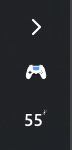
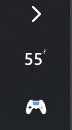
docs: add bilingual guides and native Compact tray screenshots

Changed region(s): [[0.3333, 0.7077, 0.6667, 0.8923], [0.3333, 0.3692, 0.6667, 0.5538], [0.4444, 0.0308, 0.5833, 0.2462]]

diff --git a/README.md b/README.md
@@ -1,79 +1,93 @@
-# Controller Battery Tray · 手柄电量托盘
+<div align="center">
 
-在 Windows 系统托盘直接查看手柄电量与充电状态。提供双图标和紧凑两种布局，适配系统明暗主题；手柄连接后自动显示，断开或停止上报有效数据后自动隐藏。
+# Controller Battery Tray
 
-![本机 USB DualSense 详情](docs/images/controller-status.png)
+**手柄电量，抬眼可见。**
 
-![本机竖向托盘局部](docs/images/controller-tray.png)
+Windows 托盘电量工具 · DualSense · XInput · 飞智八爪鱼 4
+
+**简体中文** · [English](README.en.md)
+
+[下载稳定版](https://github.com/AweStudioX/DualSenseBatteryTray/releases/latest) · [支持范围](#支持范围) · [从源码构建](#从源码构建) · [反馈问题](https://github.com/AweStudioX/DualSenseBatteryTray/issues)
+
+</div>
+
+> **版本说明：**原生蓝牙支持已加入当前源码，尚待实机验证；已发布的 **v1.0.2 不包含此功能**。以下截图来自本机 USB DualSense，不能作为蓝牙实测证据。
+
+## 界面预览
+
+![本机 USB DualSense 的详情窗口](docs/images/controller-status.png)
+
+### 两种托盘布局
+
+| Two icons · 默认双图标 | Compact · 紧凑单图标 |
+| :---: | :---: |
+| ![双图标：手柄与百分比](docs/images/controller-tray.png) | ![Compact：单图标内显示手柄与数字](docs/images/controller-tray-compact.png) |
+| 手柄图标 + 带百分号的电量，优先可读性 | 手柄与电量合并，节省托盘空间 |
+
+本机使用竖向任务栏，以上均为原生像素截图。Compact 图标内省略百分号，悬停提示与详情窗口仍显示完整电量。右键图标 → **Tray layout** 可切换；选择会保存，切换不会重启手柄读取。
 
 ## 功能
 
-- **电量常驻托盘**：直接查看电量数字，点击图标打开设备、连接方式、电量和状态详情。
-- **两种布局**：默认双图标（手柄图标 + 带百分号的电量），也可切换为紧凑单图标；布局选择会保存。
+- **托盘电量与充电状态**：点击图标查看设备、连接方式、电量和状态。
 - **低电量提醒**：放电时到达或低于 20% / 10% 提醒，避免重复通知。
-- **自动出现与隐藏**：登录后由后台 Watcher 检测手柄；DualSense 通过持续变化的数据判断存活，避免把仍插着的转接器当成开机的手柄。
-- **安装与卸载**：Windows x64 安装包自带 .NET 运行时，按当前用户安装，可在 Windows“已安装的应用”中卸载。
+- **随手柄出现与隐藏**：后台 Watcher 在登录后检测设备；DualSense 通过报告序号和时间戳判断存活，避免把常插接收器误认为开机手柄。
+- **主题适配**：图标跟随 Windows 系统明暗主题。
+- **当前用户安装**：安装包包含 .NET 运行时，无需单独下载，可从 Windows“已安装的应用”卸载。
 
-## 支持范围与电量精度
+## 支持范围
 
-| 设备 / 连接方式 | 当前实现 | 电量说明与限制 |
-| --- | --- | --- |
-| DualSense / USB HID | 支持 | 按手柄上报的约 10% 档位换算；显示 55% 不代表精确到 1%。不包含原生蓝牙支持。 |
-| XInput 兼容手柄 | 支持检测；电量取决于设备上报 | 已知无线电池类型可显示约 0% / 25% / 50% / 100% 四档；接收器若按有线设备上报，则显示未知。 |
-| 飞智八爪鱼 4 / 2.4 GHz 接收器 | 通过飞智本地后台服务读取 | 依赖空间站后台服务的 fcs.sock 通道及 k2 型号识别；0–5 电量等级映射为近似百分比，充电时可能只有状态而没有百分比。 |
-| 其他飞智型号 / DualSense Edge / DualShock 4 | 不作已支持承诺 | 兼容标识不能证明具体型号；需要单独适配和实机验证。 |
+| 手柄 / 连接方式 | 当前源码 | 电量来源与限制 | 实测情况 |
+| --- | --- | --- | --- |
+| DualSense / USB HID | 支持 | 约 10% 档位换算，例如 55% 不表示精确到 1% | 本机读取与截图已确认；游戏共存需按环境验证 |
+| DualSense / 原生蓝牙 | 已实现，预览 | 读取完整蓝牙报告并校验 CRC；打开连接时请求校准 Feature Report，以启用完整报告 | **待实机验证**：首次配对、重连、休眠恢复、Steam Input 共存 |
+| XInput 兼容手柄 | 支持检测，电量取决于上报 | 已知无线电池类型约为 0% / 25% / 50% / 100% 四档；按有线设备上报的接收器显示未知 | 不承诺所有型号和接收器 |
+| 飞智八爪鱼 4 / 2.4 GHz | 支持本地服务读取 | 依赖空间站后台服务的 fcs.sock 通道及 k2 身份；0–5 等级映射为近似电量 | 当前适配不代表所有固件均实测 |
+| DualSense Edge / DualShock 4 / 其他飞智型号 | 暂不承诺支持 | 需要单独适配与验证 | 未覆盖 |
 
-上表描述当前代码覆盖范围，不代表全部型号、固件和转接器均已实测。无法读取时显示问号，不会用 100% 代替未知电量。截图来自本机 USB DualSense，未展示其他型号的实测结果。
+无法读取时显示问号，不用 100% 代替未知值。飞智充电时可能只有状态，没有百分比。蓝牙简化报告、损坏报告与不支持的报告不会被当作电量数据。
 
-## 下载与使用
+## 安装与使用
 
-1. 从 [GitHub Releases](https://github.com/AweStudioX/DualSenseBatteryTray/releases/latest) 下载最新 win-x64-Setup.exe。
-2. 运行安装包，无需单独安装 .NET；连接受支持手柄后查看系统托盘。
-3. 点击图标查看详情；右键可切换布局、刷新，以及管理登录后监听。
-4. 卸载：Windows **设置 → 应用 → 已安装的应用 → DualSense Battery Tray**。
+1. 从 [Releases](https://github.com/AweStudioX/DualSenseBatteryTray/releases/latest) 下载 Windows x64 的 Setup.exe。
+2. 安装后连接受支持手柄；点击托盘图标打开详情，右键管理布局、刷新和登录后监听。
+3. 手柄断开或持续停止有效上报后，应用退出并移除图标；后台 Watcher 保留检测能力。
+4. 卸载：**设置 → 应用 → 已安装的应用 → DualSense Battery Tray**。
 
-安装包当前未签名，可能触发 Windows SmartScreen 提示。请核对下载来源和 Release 附带的 SHA-256。ZIP 是手动安装包，并非免安装便携版。
+安装包目前未签名，Windows SmartScreen 可能显示提示。请核对 GitHub Release 来源与附带 SHA-256。ZIP 为手动安装包，**不是便携版**；解压后运行 install.ps1，移除使用 uninstall.ps1。Setup 安装请从 Windows 应用列表卸载。
+
+## 原生蓝牙（源码预览）
+
+在 Windows 中先完成 DualSense 蓝牙配对，然后运行从当前源码构建的版本。应用使用同一 Sony VID/PID 识别设备，根据 HID 报告长度区分 USB 与蓝牙，并在详情中显示 **Bluetooth**。
+
+蓝牙连接打开时读取校准 Feature Report 0x05，请求手柄提供含电量的完整报告；不会写入校准值。若请求失败且无法获得完整报告，应用不会编造电量，Watcher 会在后续检测中重新尝试。此路径已有自动测试，硬件验证仍待完成。
 
 ## 数据与兼容性
 
-DualSense HID 采用共享只读方式；XInput 使用电池状态查询；飞智通过本地后台服务查询电量。应用不发送手柄灯光、震动或按键控制命令，也不创建虚拟手柄。第三方隐藏设备或独占访问可能导致电量不可读，具体游戏共存情况需要按设备实测。
+- HID 保持共享只读访问；不创建虚拟手柄、不映射输入、不发送灯光、震动或按键控制命令。
+- USB 不请求 Feature Report；蓝牙额外进行上述 Feature Report 读取。因此“完全不访问 Feature Report”不适用于新版蓝牙路径。
+- XInput 使用电池状态 API；飞智通过本地空间站服务查询。
+- 日志与布局偏好保存在本地，不上传按键或摇杆数据。HidHide、独占访问或设备隐藏可能导致电量不可读。
+- 蓝牙模式切换可能影响其他软件对手柄报告格式的假设；Steam Input 与游戏共存需实机确认。
 
-## English
+## 从源码构建
 
-Windows x64 tray battery monitor for USB DualSense and XInput-compatible controllers, with Flydigi APEX 4 readings through the local Space Station service. Includes readable/compact layouts, charging status, low-battery alerts, and automatic visibility based on controller liveness. Support depends on the connection and available battery source; percentages can be coarse estimates.
+需要 Windows x64 和 .NET 8 SDK。
 
+~~~powershell
+dotnet restore DualSenseBatteryTray.sln
+dotnet test DualSenseBatteryTray.sln -c Release
+dotnet publish src/DualSenseBatteryTray.App/DualSenseBatteryTray.App.csproj -c Release -r win-x64 --self-contained true -p:DebugType=None -p:DebugSymbols=false -o artifacts/app-publish
+dotnet publish src/DualSenseBatteryTray.Watcher/DualSenseBatteryTray.Watcher.csproj -c Release -r win-x64 --self-contained true -p:DebugType=None -p:DebugSymbols=false -o artifacts/watcher-publish
+.\scripts\merge-publish.ps1 -AppDirectory (Resolve-Path artifacts/app-publish).Path -WatcherDirectory (Resolve-Path artifacts/watcher-publish).Path -OutputDirectory (Join-Path $PWD artifacts/publish)
+.\scripts\install.ps1 -PublishDirectory (Resolve-Path artifacts/publish).Path
+~~~
 
-## Install
+发布 version tag 会触发 Windows Release 流程：测试、构建自包含应用与 Watcher、构建并验证安装包、上传产物及校验文件。详见 [.github/workflows/release.yml](.github/workflows/release.yml)。
 
-Download `DualSenseBatteryTray-v1.0.1-win-x64-Setup.exe` from the [latest GitHub Release](https://github.com/AweStudioX/DualSenseBatteryTray/releases/latest) and run it. This is one per-user installer: it bundles the App, background Watcher, and .NET runtime, so there is no second download or administrator prompt. It installs to `%LOCALAPPDATA%\Programs\DualSenseBatteryTray`, registers the Watcher to start at Windows sign-in, and appears in Windows **Installed apps**. The tray App still appears only while a live controller is detected.
+## 致谢
 
-To remove it, use Windows **Settings → Apps → Installed apps → DualSense Battery Tray → Uninstall**, or the Start Menu uninstall shortcut. The installer is currently unsigned, so Windows SmartScreen may show a warning; verify the release download and its `.sha256` checksum before choosing to run it.
-
-The `win-x64.zip` archive remains available for manual installation. It is not a portable edition. Extract it and run:
-
-```powershell
-.\install.ps1 -PublishDirectory .\publish
-```
-
-This PowerShell route installs the same App, Watcher, and logon task for the current user. If you installed from ZIP, remove it with `uninstall.ps1` from the extracted archive. If you installed with Setup.exe, use Windows Installed apps instead.
-
-## Behavior
-
-- Supported controllers currently include USB DualSense and XInput-compatible controllers. Flydigi receivers are recognized separately when Windows exposes their `FLYDIGI_VADER` or `FLYDIGI_APEX` compatibility identity; other XInput devices use a generic gamepad profile and icon.
-- A supported controller uses the readable `Two icons` layout by default at 96 DPI: a controller-specific icon followed by a separate battery value that includes `%`.
-- DualSense reports coarse battery steps (roughly 10%); values such as 55% are converted estimates, not 1%-accurate measurements. When XInput exposes a known wireless battery type, the application displays its four coarse buckets as `≈ 0%`, `≈ 25%`, `≈ 50%`, or `≈ 100%`. Some third-party receivers—including current Flydigi compatibility firmware—report themselves as wired; their battery remains `?` instead of showing a misleading 100%.
-- Flydigi APEX 4 exposes its real 0–5 battery level and charging state through the Space Station background channel. When its local `fcs.sock` pipe is available, the app identifies the controller as `k2`, uses the APEX icon, and reads that channel without opening or taking over controller input. Without a verified identity source, the receiver is still detected, but its misleading `VADER3` compatibility identity is not treated as an exact model match: the app uses the generic gamepad icon and shows battery as `?`.
-- `Compact` remains an optional persisted layout with one controller-and-number icon; it omits `%` inside the icon while hover text and the status window retain the complete percentage.
-- Connected tray artwork automatically adapts its outline and number contrast when the Windows system theme changes. Charging never replaces the measured percentage with a fabricated value.
-- `Tray layout` in the right-click menu switches live between `Two icons` and `Compact`; the successful choice is remembered across reconnects without restarting the HID session.
-- The executable and status window use a separate static, unconnected controller identity with an unlit touchpad and no blue connection indicator.
-- Clicking any active tray icon opens the status window; right-clicking opens Refresh, listener, tray-layout, About, and Exit commands.
-- VID/PID presence alone is not treated as a connected DualSense. The hidden watcher launches for advancing DualSense reports or an active XInput slot; an idle DualSense adapter that returns frozen reports keeps every tray/window UI hidden.
-- When advancing reports stop, the tray application closes and removes its icon or icons after the liveness timeout; the hidden watcher remains available and restores the application automatically when advancing reports resume without requiring a USB reconnect.
-- DualSense HID access is shared and read-only. XInput support calls only the battery-status API. The application never sends controller output, feature reports, vibration, lighting, or input commands.
-- Controller artwork is adapted from Microsoft Fluent UI System Icons under MIT; see `LICENSES/fluentui-system-icons-MIT.txt`.
-- Flydigi local-service protocol framing is adapted from JKWTCN/BatteryMonitor under MIT; see `LICENSES/batterymonitor-MIT.txt`.
-
-## Releases
-
-Pushing a version tag such as `v1.0.1` runs the Windows Release workflow. It tests the solution, publishes self-contained `win-x64` App and Watcher executables, builds and smoke-tests Setup.exe, then attaches Setup.exe, the manual-install ZIP, and a SHA-256 checksum for each to the GitHub Release. A manual workflow run validates the same packages without publishing a release.
+- [dualshock-tools](https://github.com/dualshock-tools/dualshock-tools.github.io)：电量解析依据，MIT 声明见 [LICENSES](LICENSES/dualshock-tools-MIT.txt)。
+- [JKWTCN/BatteryMonitor](https://github.com/JKWTCN/BatteryMonitor)：飞智本地服务协议封装参考，见 [MIT 声明](LICENSES/batterymonitor-MIT.txt)。
+- [Microsoft Fluent UI System Icons](https://github.com/microsoft/fluentui-system-icons)：手柄图标素材，见 [MIT 声明](LICENSES/fluentui-system-icons-MIT.txt)。
+- 蓝牙报告布局和 CRC 依据 [Linux hid-playstation](https://github.com/torvalds/linux/blob/master/drivers/hid/hid-playstation.c) 的协议定义独立实现；完整报告初始化行为参考 [go-dualsense-battery](https://github.com/neolit123/go-dualsense-battery/blob/main/main.go)。

diff --git a/README.en.md b/README.en.md
@@ -1,0 +1,93 @@
+<div align="center">
+
+# Controller Battery Tray
+
+**Your controller battery, at a glance.**
+
+Windows tray utility · DualSense · XInput · Flydigi APEX 4
+
+[简体中文](README.md) · **English**
+
+[Download stable](https://github.com/AweStudioX/DualSenseBatteryTray/releases/latest) · [Compatibility](#compatibility) · [Build from source](#build-from-source) · [Report an issue](https://github.com/AweStudioX/DualSenseBatteryTray/issues)
+
+</div>
+
+> **Version note:** native Bluetooth support is implemented in the current source, pending hardware verification. Published **v1.0.2 does not include it**. Screenshots show a real USB DualSense session; they are not evidence of Bluetooth hardware testing.
+
+## Preview
+
+![Real USB DualSense status window](docs/images/controller-status.png)
+
+### Two tray layouts
+
+| Two icons · default | Compact · single icon |
+| :---: | :---: |
+| ![Separate controller and battery icons](docs/images/controller-tray.png) | ![Controller and number in one Compact icon](docs/images/controller-tray-compact.png) |
+| Controller artwork plus a separate percentage for readability | Controller artwork and number combined to save space |
+
+These are native-pixel captures from a vertical Windows taskbar. Compact omits the percent sign inside the icon; the tooltip and status window retain the full value. Right-click → **Tray layout** to switch. The choice persists without restarting the controller reader.
+
+## Features
+
+- **Battery and charging status in the tray**: click to view the device, connection, battery and state.
+- **Low-battery alerts**: notify at or below 20% and 10% while discharging, with duplicate suppression.
+- **Automatic visibility**: a background Watcher detects controllers after sign-in. DualSense liveness uses advancing report sequence/timestamp values to avoid mistaking an always-plugged adapter for a powered controller.
+- **System theme support**: tray artwork follows the Windows light/dark system theme.
+- **Per-user installation**: Setup includes the .NET runtime and supports removal through Windows Installed apps.
+
+## Compatibility
+
+| Controller / connection | Current source | Battery source and limits | Hardware verification |
+| --- | --- | --- | --- |
+| DualSense / USB HID | Supported | Converted from roughly 10% steps; 55% does not imply 1% accuracy | Reading and screenshots confirmed locally; game coexistence depends on the environment |
+| DualSense / native Bluetooth | Implemented, preview | Full Bluetooth reports with CRC validation; reads a calibration Feature Report on open to enable full reports | **Pending**: initial pairing, reconnect, resume, Steam Input coexistence |
+| XInput-compatible controllers | Detection supported; battery depends on device | Known wireless battery types expose approximately 0% / 25% / 50% / 100%; receivers reporting wired show unknown | Not a guarantee for all models or receivers |
+| Flydigi APEX 4 / 2.4 GHz | Local-service reader supported | Requires Space Station's fcs.sock channel and k2 identity; levels 0–5 map to approximate percentages | Not all firmware versions have been tested |
+| DualSense Edge / DualShock 4 / other Flydigi models | No support commitment | Require separate adaptation and verification | Not covered |
+
+Unavailable readings display a question mark, never a fabricated 100%. Flydigi may expose charging state without a percentage. Minimal Bluetooth reports, corrupted data and unsupported reports are not interpreted as battery values.
+
+## Install and use
+
+1. Download the Windows x64 Setup.exe from [Releases](https://github.com/AweStudioX/DualSenseBatteryTray/releases/latest).
+2. Install and connect a supported controller. Click the tray icon for details; right-click for layout, refresh and sign-in listener controls.
+3. Disconnecting or persistently losing valid advancing reports closes the app and removes its icons. The Watcher stays available for later connections.
+4. Remove via **Settings → Apps → Installed apps → DualSense Battery Tray**.
+
+The installer is currently unsigned, so Windows SmartScreen may show a warning. Verify the GitHub Release source and supplied SHA-256. The ZIP is a **manual-install package, not a portable edition**: extract it and run install.ps1; remove it with uninstall.ps1. For Setup installations, use Windows Installed apps instead.
+
+## Native Bluetooth (source preview)
+
+Pair your DualSense through Windows first, then run a build of the current source. The app identifies the controller by the same Sony VID/PID, distinguishes USB and Bluetooth by HID report length, and shows **Bluetooth** in the status window.
+
+On Bluetooth open, the app reads calibration Feature Report 0x05 to request full input reports containing battery data. It does not write calibration values. If the request fails and full reports remain unavailable, no battery value is fabricated; the Watcher can retry on later probes. This path has automated coverage but still needs hardware verification.
+
+## Data and coexistence
+
+- HID access remains shared and read-only. No virtual controller, input remapping, lighting, vibration or button-control commands.
+- USB makes no Feature Report requests; Bluetooth performs the GET described above. A blanket claim of never accessing Feature Reports no longer applies to Bluetooth.
+- XInput uses the battery-status API; Flydigi queries its local Space Station service.
+- Logs and layout preferences remain local. No button or stick data is uploaded. HidHide, exclusive access or device hiding may prevent battery access.
+- Switching Bluetooth report mode may affect other software's assumptions about report format; Steam Input and game coexistence require hardware testing.
+
+## Build from source
+
+Requires Windows x64 and .NET 8 SDK.
+
+~~~powershell
+dotnet restore DualSenseBatteryTray.sln
+dotnet test DualSenseBatteryTray.sln -c Release
+dotnet publish src/DualSenseBatteryTray.App/DualSenseBatteryTray.App.csproj -c Release -r win-x64 --self-contained true -p:DebugType=None -p:DebugSymbols=false -o artifacts/app-publish
+dotnet publish src/DualSenseBatteryTray.Watcher/DualSenseBatteryTray.Watcher.csproj -c Release -r win-x64 --self-contained true -p:DebugType=None -p:DebugSymbols=false -o artifacts/watcher-publish
+.\scripts\merge-publish.ps1 -AppDirectory (Resolve-Path artifacts/app-publish).Path -WatcherDirectory (Resolve-Path artifacts/watcher-publish).Path -OutputDirectory (Join-Path $PWD artifacts/publish)
+.\scripts\install.ps1 -PublishDirectory (Resolve-Path artifacts/publish).Path
+~~~
+
+Pushing a version tag triggers the Windows Release workflow: test, publish self-contained App/Watcher binaries, build and validate Setup, and upload packages plus checksums. See [.github/workflows/release.yml](.github/workflows/release.yml).
+
+## Acknowledgements
+
+- [dualshock-tools](https://github.com/dualshock-tools/dualshock-tools.github.io): battery parsing reference; [MIT notice](LICENSES/dualshock-tools-MIT.txt).
+- [JKWTCN/BatteryMonitor](https://github.com/JKWTCN/BatteryMonitor): Flydigi service framing reference; [MIT notice](LICENSES/batterymonitor-MIT.txt).
+- [Microsoft Fluent UI System Icons](https://github.com/microsoft/fluentui-system-icons): controller artwork; [MIT notice](LICENSES/fluentui-system-icons-MIT.txt).
+- Bluetooth layout and CRC independently implemented from the protocol definitions in [Linux hid-playstation](https://github.com/torvalds/linux/blob/master/drivers/hid/hid-playstation.c); full-report initialization behavior checked against [go-dualsense-battery](https://github.com/neolit123/go-dualsense-battery/blob/main/main.go).

diff --git a/docs/verification/2026-11-07-native-bluetooth.md b/docs/verification/2026-11-07-native-bluetooth.md
@@ -1,0 +1,15 @@
+# Native Bluetooth implementation verification
+
+- Date: 2026-11-07 (Asia/Hong_Kong).
+- Source adds 78-byte report 0x31 parsing, shifted common payload offsets and CRC32 seeded with 0xA1. USB remains 64-byte report 0x01.
+- Bluetooth sessions reject minimal reports even if padded to USB length. Invalid reports cannot update battery or liveness.
+- Shared GENERIC_READ access remains unchanged. Bluetooth session open performs one HidD_GetFeature calibration-report read (0x05), sized from HID capabilities with a 41-byte minimum. No output report or SetFeature is introduced. Failed initialization does not invent a battery reading; only valid full reports are accepted.
+- Reader and Watcher both use Bluetooth-aware liveness, including sequence/timestamp wrap and stale-report timeout. Discovery labels Bluetooth using the HID input report length.
+- Automated tests: 351 passed (Core 20, HID 81, Watcher 37, App 213). Installer build-contract tests: 9 passed; install/uninstall transactional tests: 32 passed. Release build: 0 warnings, 0 errors.
+- The initial single-instance test failed while the installed App held its mutex; after stopping that App and its Watcher task, all tests passed. No product defect was inferred from that environmental conflict.
+- Local source preview ran with a real USB DualSense and displayed 55%, Discharging. Compact and Two icons screenshots were captured from that session at native desktop resolution, without fabricating values.
+- Native Bluetooth hardware verification is intentionally pending at the user's request. Initial pairing/full-mode activation, physical off/on reconnect, Windows resume, and coexistence with Steam Input/games are not claimed as tested.
+- Published stable v1.0.2 does not contain this feature. Source/preview documentation distinguishes that release from this implementation.
+
+- Integrated remote commit b9ae52d (shared self-contained runtime packaging); source build instructions now publish separately and merge via scripts/merge-publish.ps1.
+- Shared-runtime App and Watcher publish outputs were built and merged successfully after integration. The installed stable Watcher task and original tray preference were restored after verification.
